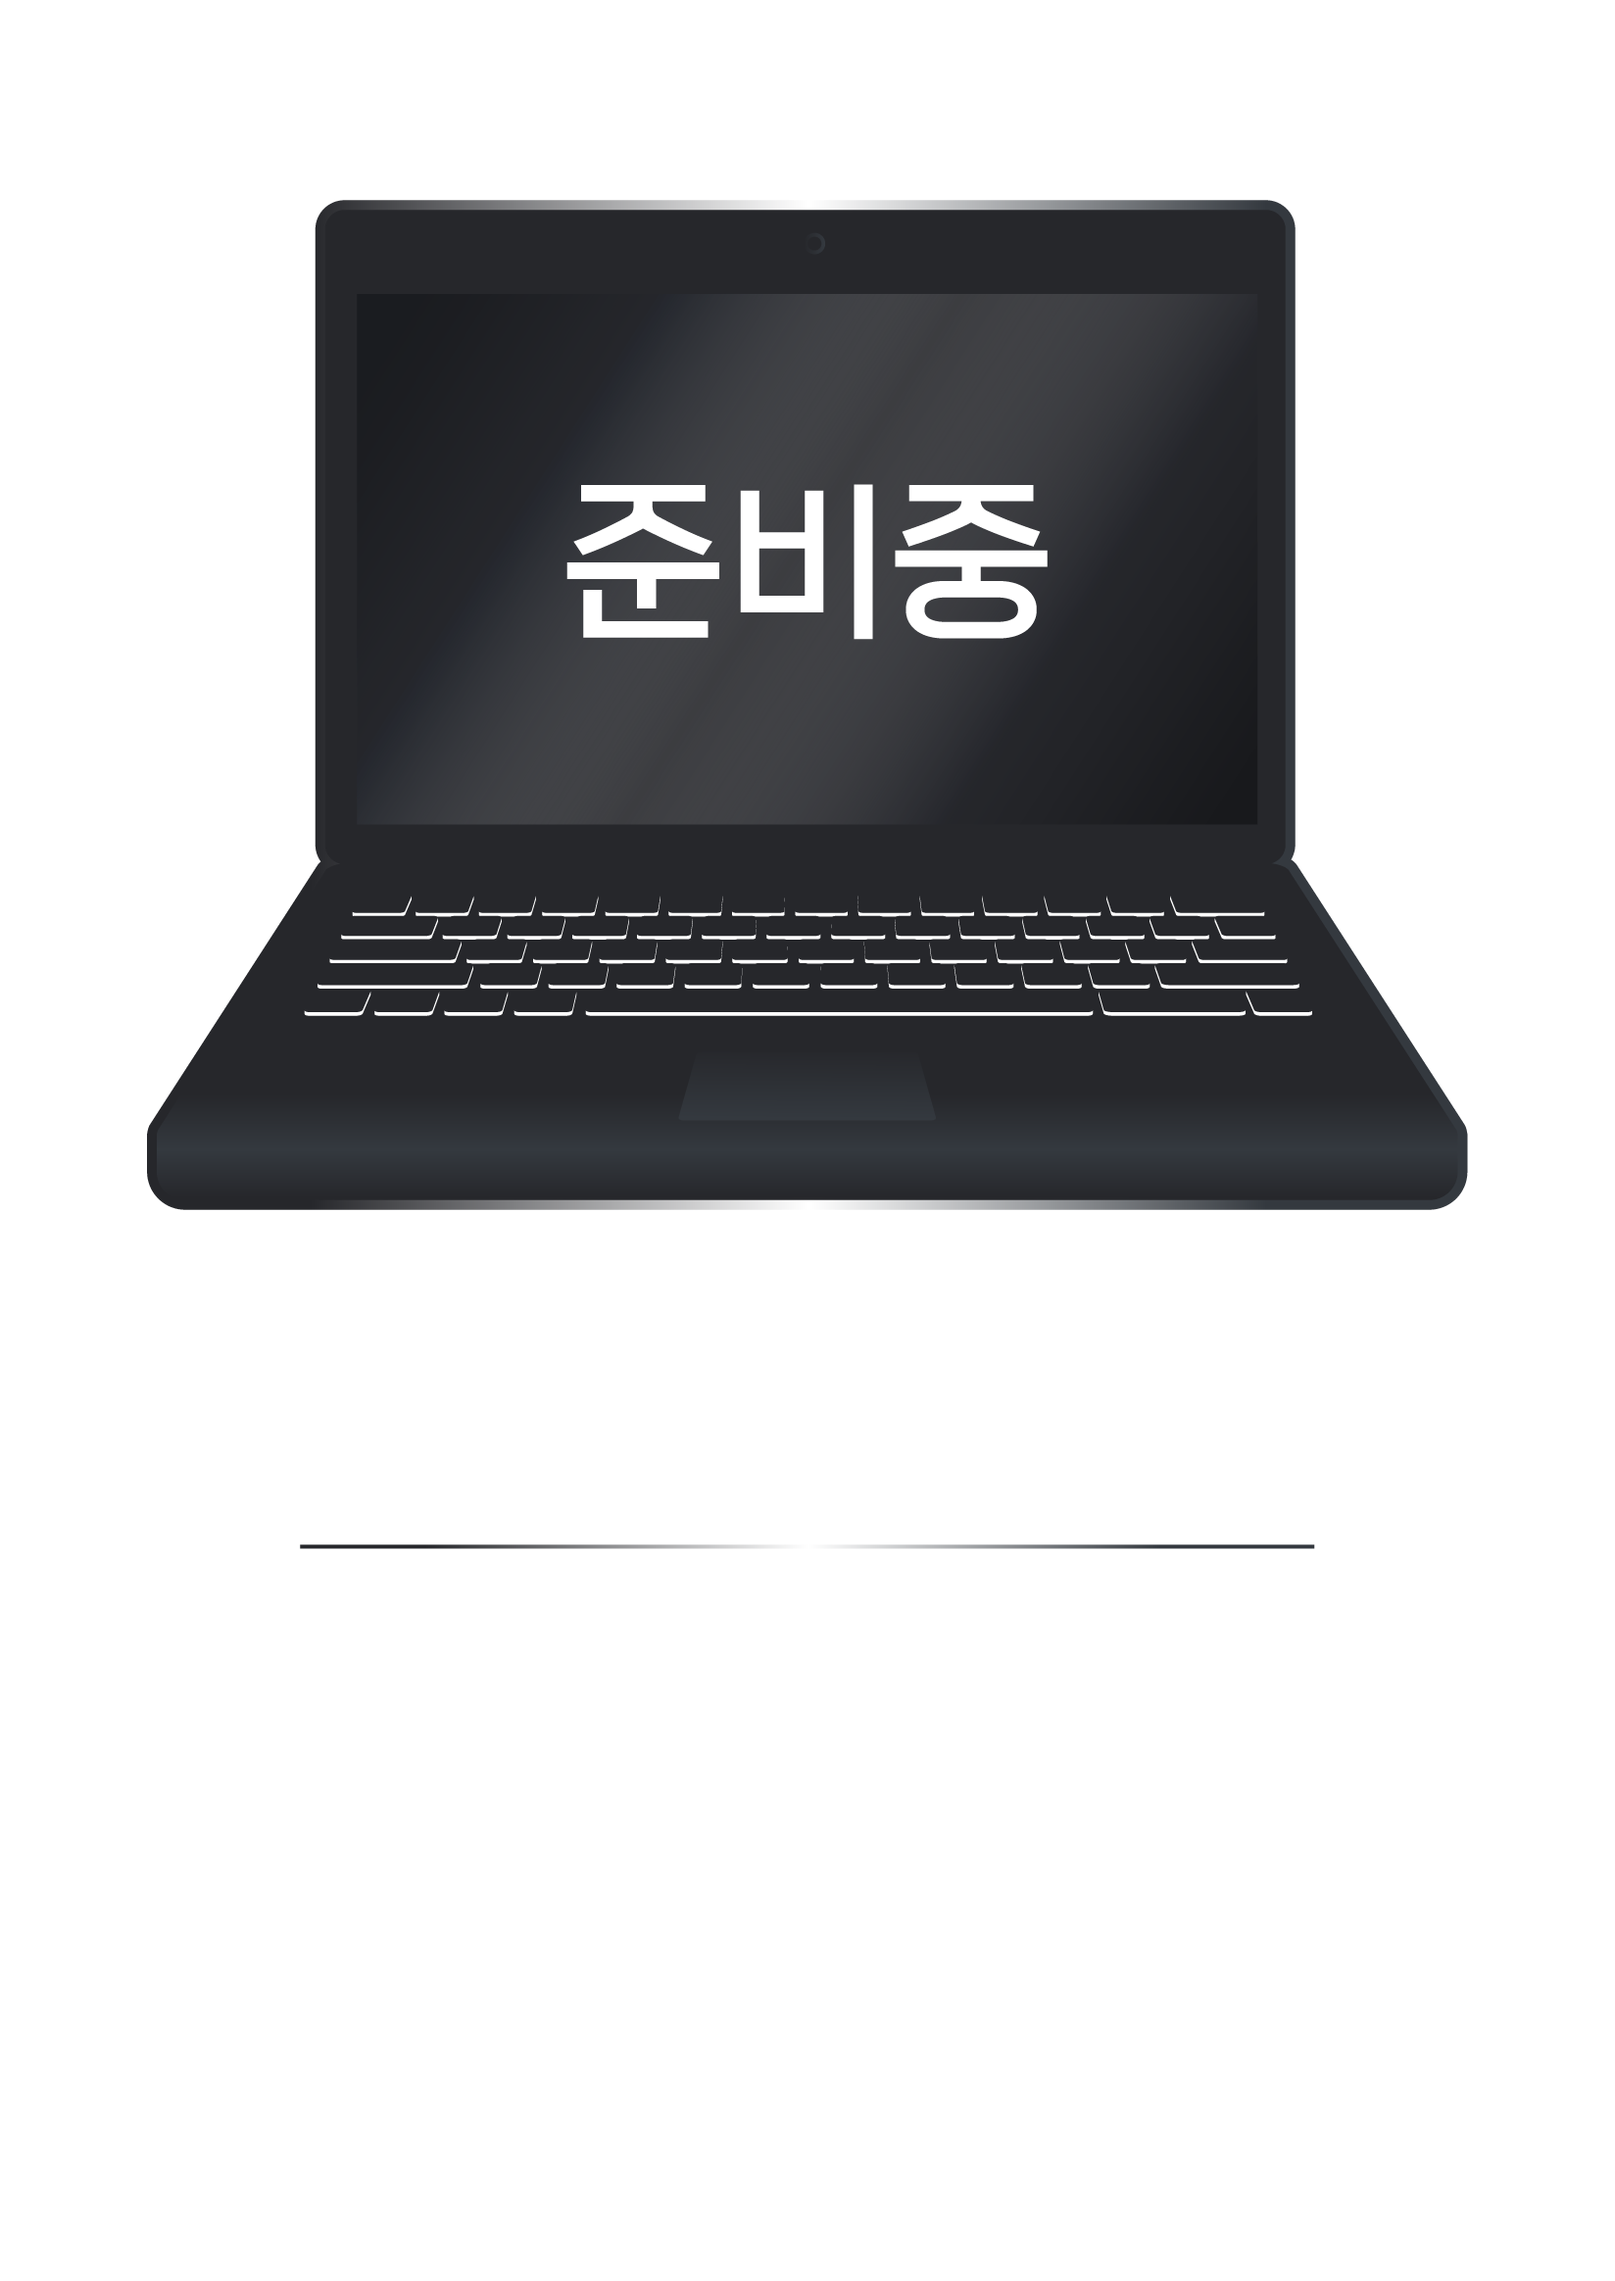
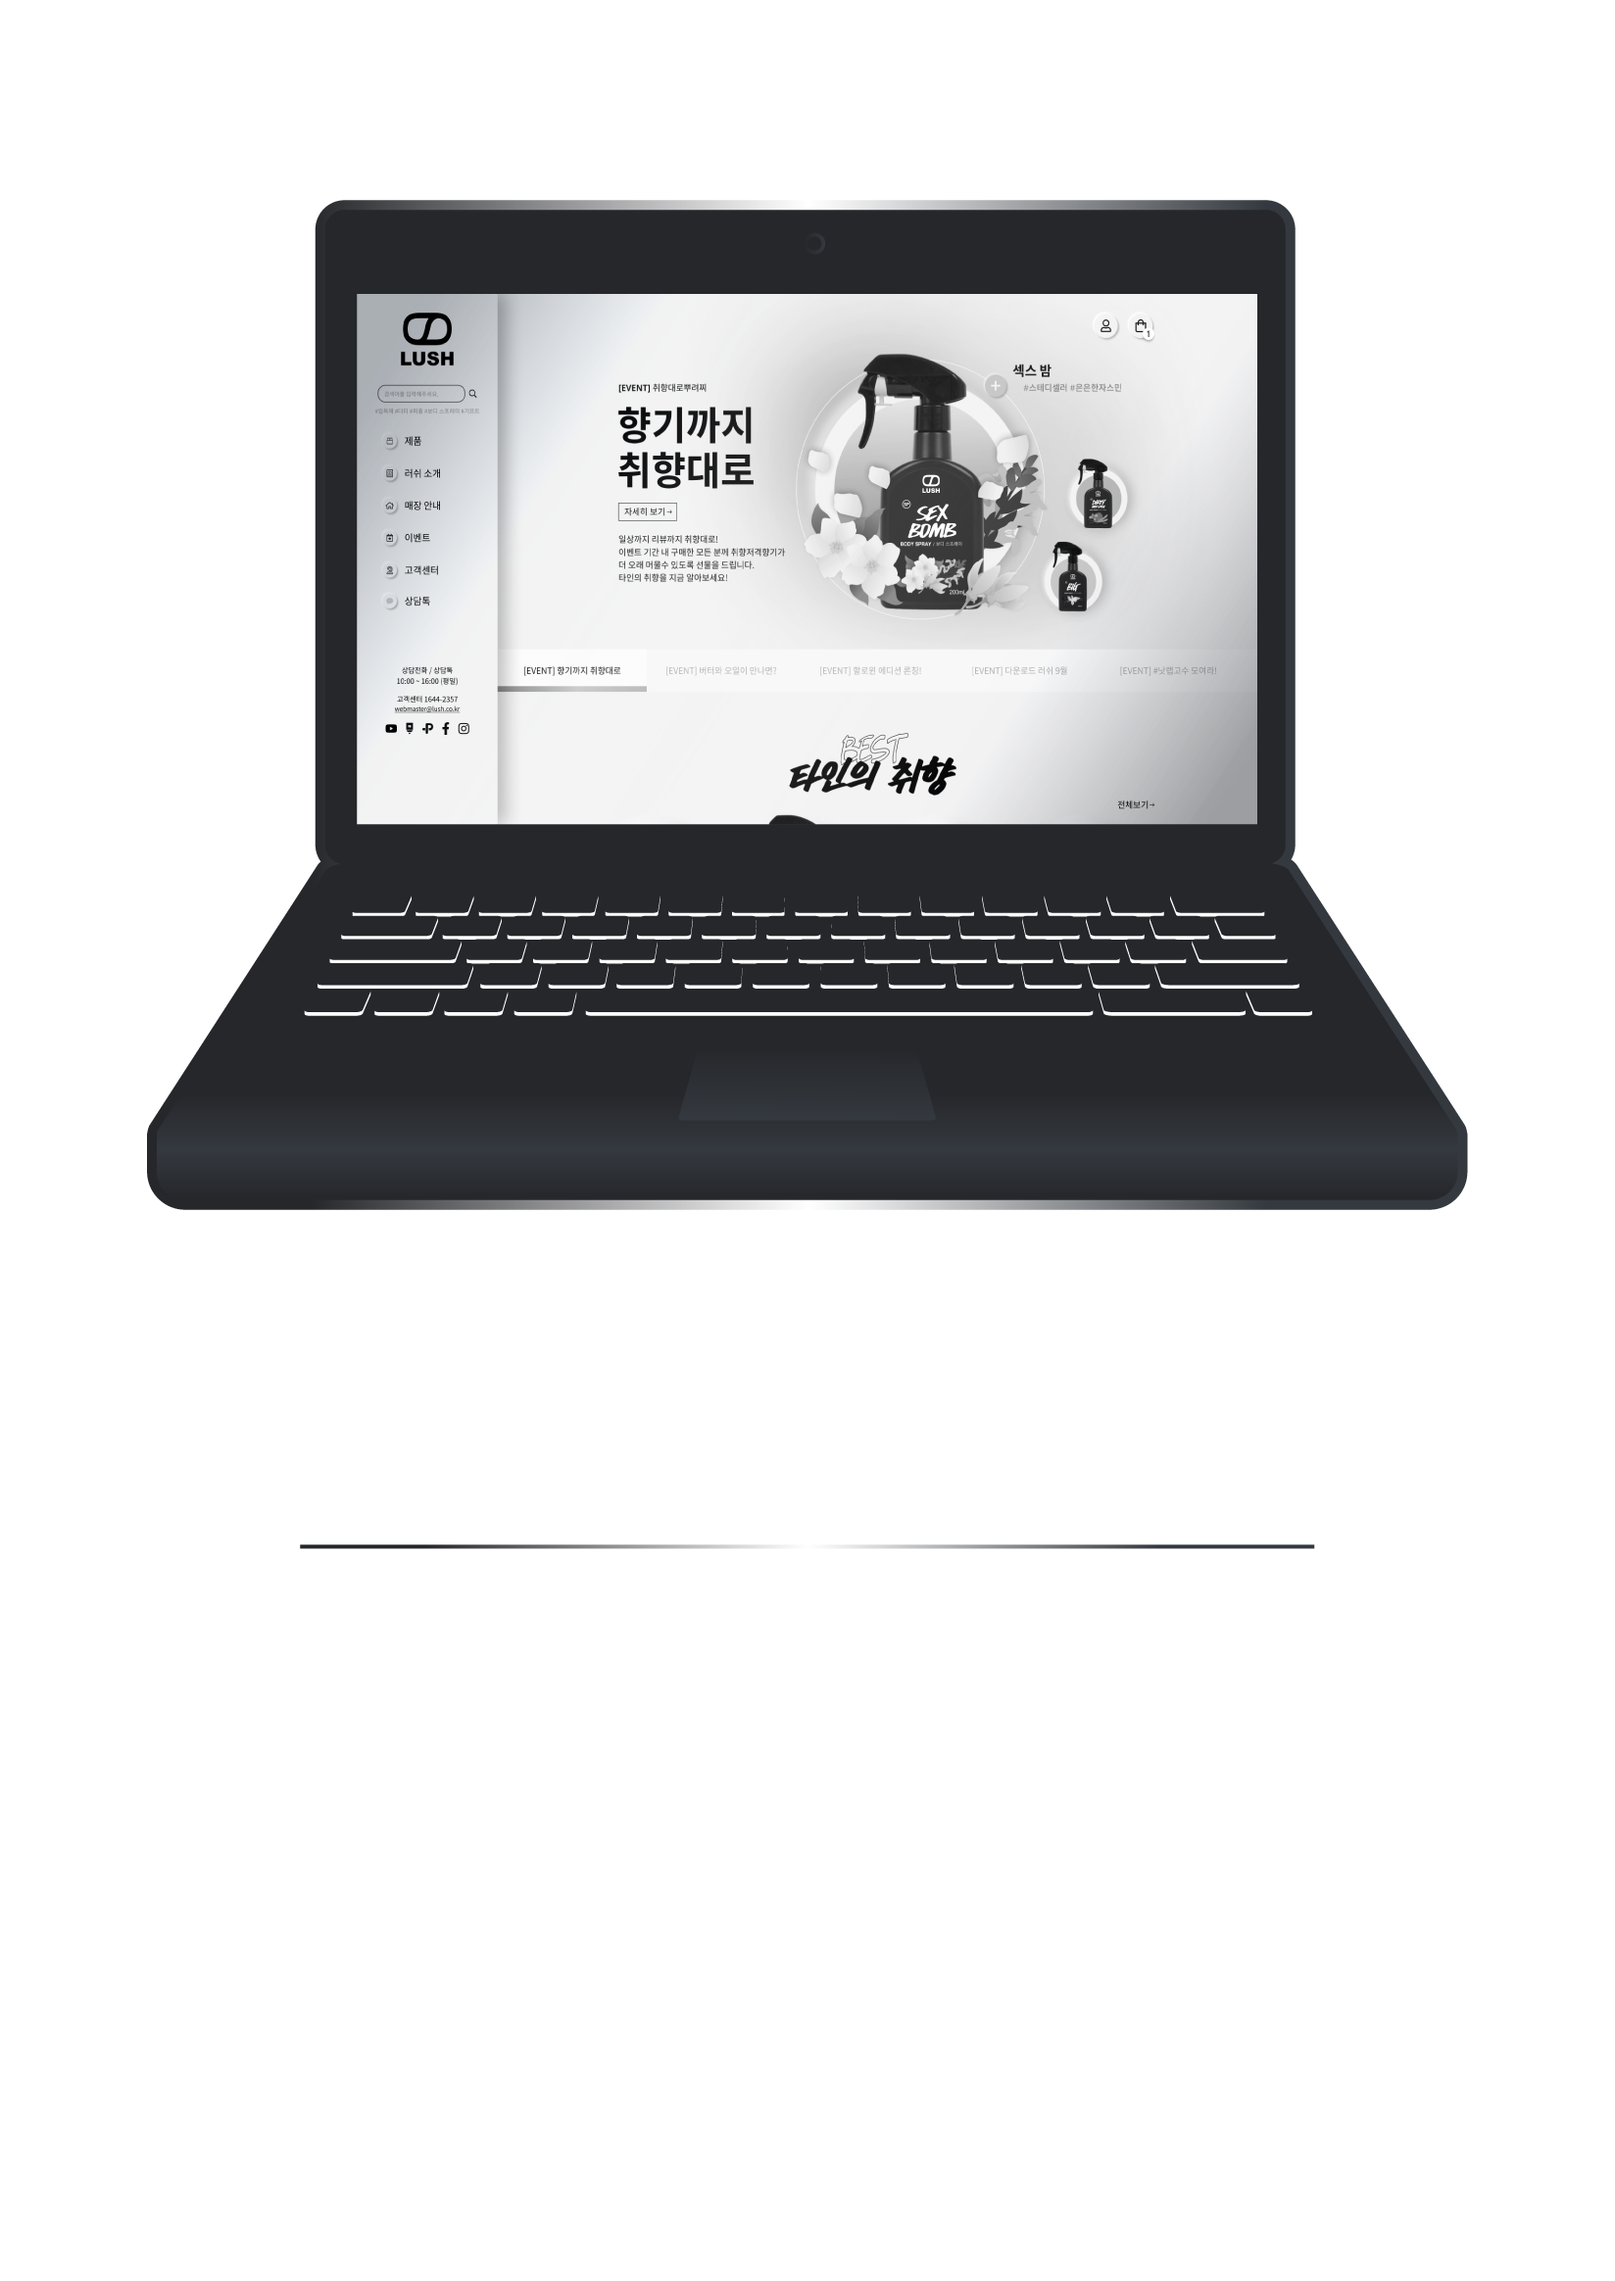
수정

Changed region(s): [[0.2166, 0.1237, 0.8046, 0.3711]]

diff --git a/docs/pf.html b/docs/pf.html
@@ -55,13 +55,13 @@ var _0x5540=['metaKey','event','shiftKey','467012ulvaJz','229983hyzlIQ','97wuigq
       </div>
       <!-- 리뉴얼 사이트 -->
       <div class="swiper-slide swiper-slide_1">
-        <img class="bn_3_2_1" src="resource/img/bn_3_3_1.png" onmouseover="this.src='resource/img/bn_3_3_1.png'"
+        <img class="bn_3_2_1" src="resource/img/bn_3_3_1.png" onmouseover="this.src='resource/img/bn_3_3_2.png'"
           onmouseout="this.src='resource/img/bn_3_3_1.png'">
         <div class="bn_3_1_2_2">
-          <a href="#">
+          <a href="https://han-a-reum.github.io/pt_rew_ps_2021/" target='_blank'>
           <img class="bn_3_1_2_1 cursor-pointer" src="resource/img/bn_3_1_3.png" onmouseover="this.src='resource/img/bn_3_1_3_3.png'"
           onmouseout="this.src='resource/img/bn_3_1_3.png'"></a>
-          <a href="#"><img class="bn_3_1_3 cursor-pointer"  src="resource/img/bn_3_1_2.png" onmouseover="this.src='resource/img/bn_3_1_2_4.png'"
+          <a href="https://han-a-reum.github.io/pt_rew_2021/" target='_blank'><img class="bn_3_1_3 cursor-pointer"  src="resource/img/bn_3_1_2.png" onmouseover="this.src='resource/img/bn_3_1_2_4.png'"
           onmouseout="this.src='resource/img/bn_3_1_2.png'"></a>
         </div>
       </div>

diff --git a/pf.ssg.php b/pf.ssg.php
@@ -22,13 +22,13 @@ $pageCode = "pf";
       </div>
       <!-- 리뉴얼 사이트 -->
       <div class="swiper-slide swiper-slide_1">
-        <img class="bn_3_2_1" src="resource/img/bn_3_3_1.png" onmouseover="this.src='resource/img/bn_3_3_1.png'"
+        <img class="bn_3_2_1" src="resource/img/bn_3_3_1.png" onmouseover="this.src='resource/img/bn_3_3_2.png'"
           onmouseout="this.src='resource/img/bn_3_3_1.png'">
         <div class="bn_3_1_2_2">
-          <a href="#">
+          <a href="https://han-a-reum.github.io/pt_rew_ps_2021/" target='_blank'>
           <img class="bn_3_1_2_1 cursor-pointer" src="resource/img/bn_3_1_3.png" onmouseover="this.src='resource/img/bn_3_1_3_3.png'"
           onmouseout="this.src='resource/img/bn_3_1_3.png'"></a>
-          <a href="#"><img class="bn_3_1_3 cursor-pointer"  src="resource/img/bn_3_1_2.png" onmouseover="this.src='resource/img/bn_3_1_2_4.png'"
+          <a href="https://han-a-reum.github.io/pt_rew_2021/" target='_blank'><img class="bn_3_1_3 cursor-pointer"  src="resource/img/bn_3_1_2.png" onmouseover="this.src='resource/img/bn_3_1_2_4.png'"
           onmouseout="this.src='resource/img/bn_3_1_2.png'"></a>
         </div>
       </div>
